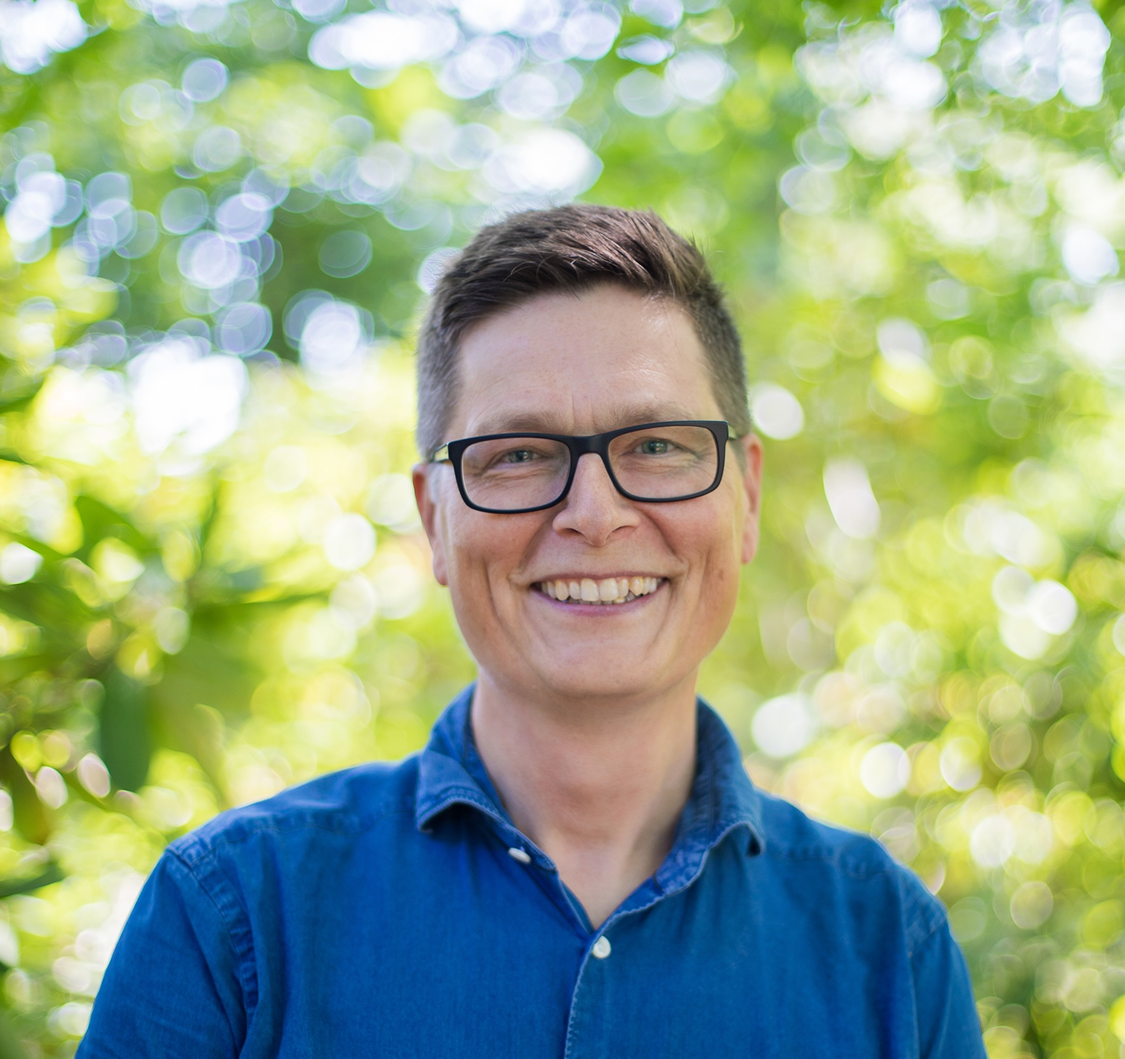
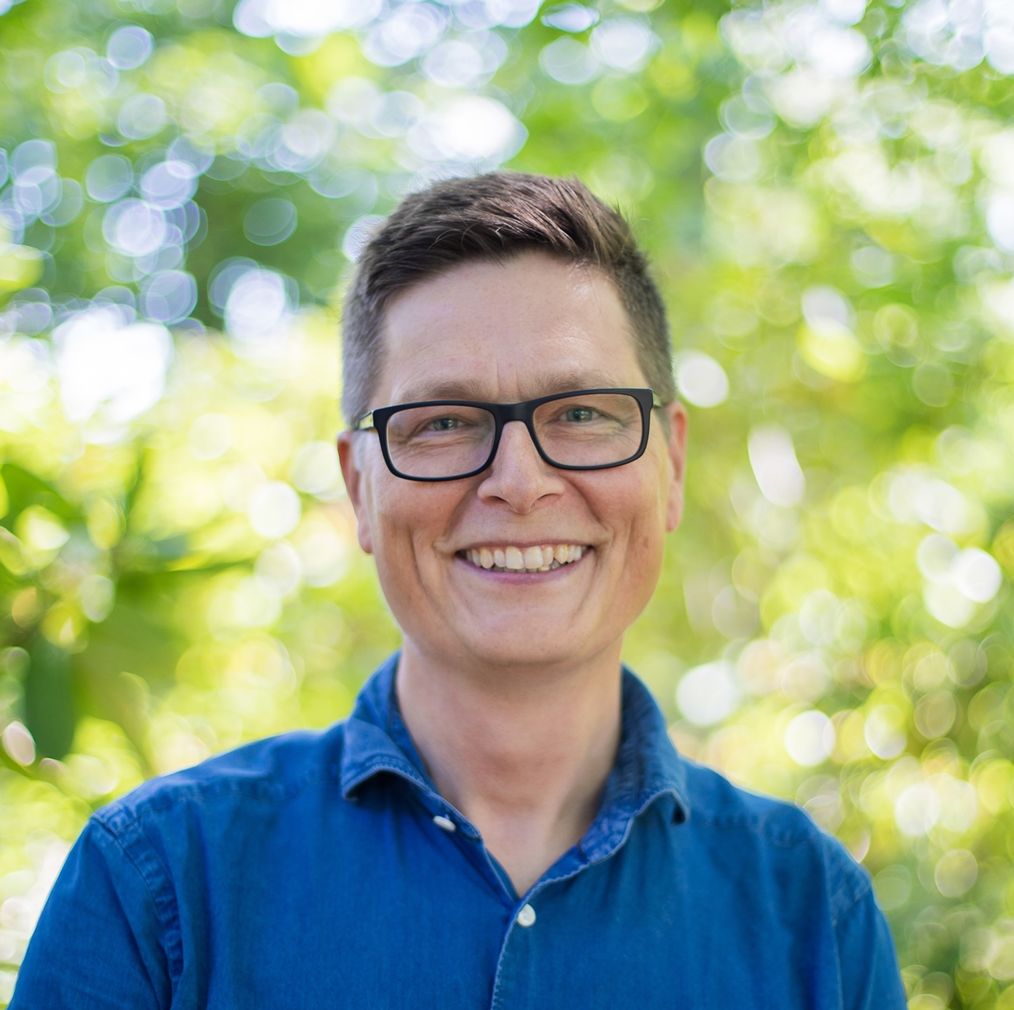
SAB_correction

diff --git a/src/pages/members.tsx b/src/pages/members.tsx
@@ -106,7 +106,7 @@ including phylogenetics and cyber-physical systems.</>),
   },
   {
     name: (<a href="https://palaeogenetics.com/tom-van-der-valk/">Tom van der Valk</a>),
-    image: 'img/david2021.jpg',
+    image: 'img/Tom_vd_Valk.jpg',
     title: (<>Principal Investigator </>),
     description: (<> Tom is a Data-Driven Life Science Fellow at the Swedish Museum of Natural History.
 His research has focused on population genomics and palaeogenomics of vertebrates, and he has extensive experience in using 
@@ -152,7 +152,7 @@ const ScientificAdvis= [
   },
   {
     name: (<a href="https://www.museumfuernaturkunde.berlin/en/about/team/bonnie.blaimer">Bonnie Blaimer </a>),
-    image: 'img/B_Blaimer.jpg',
+    image: 'img/B_Blaimer.jpeg',
     //title: (<>Researcher</>),
     description: (<>Scientific Head of the Hymenoptera collection at the Natural History Museum in Berlin. </>),
   },
